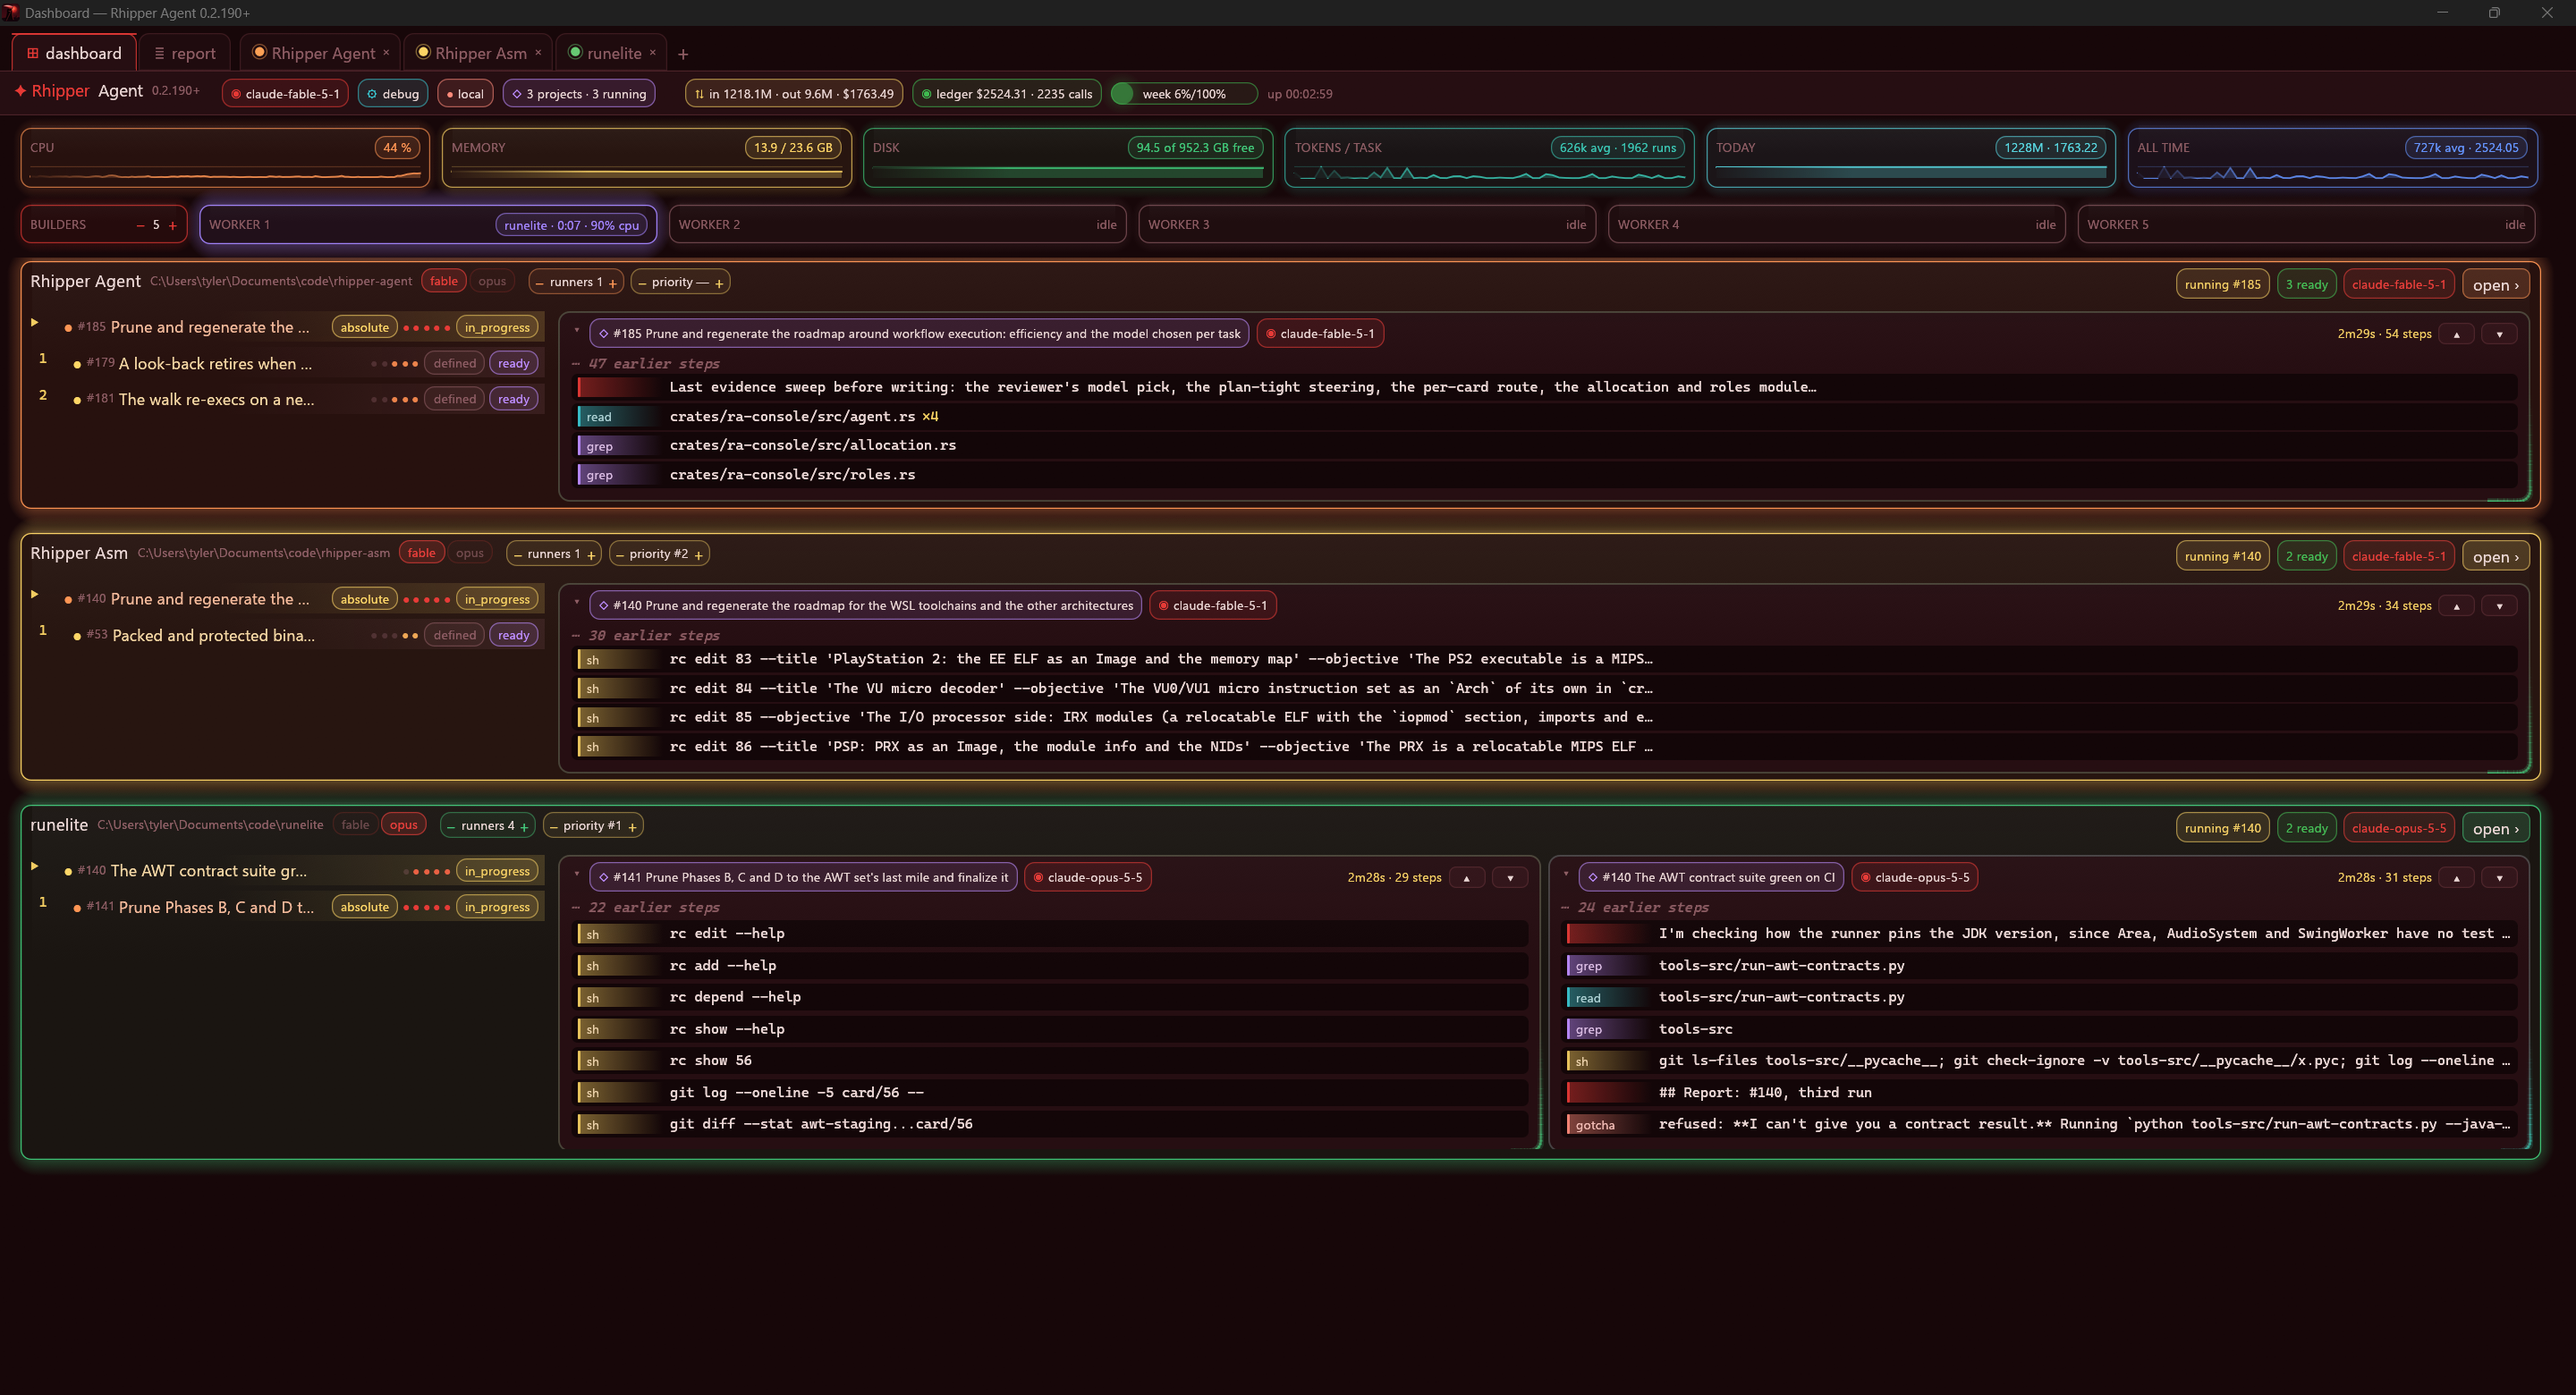
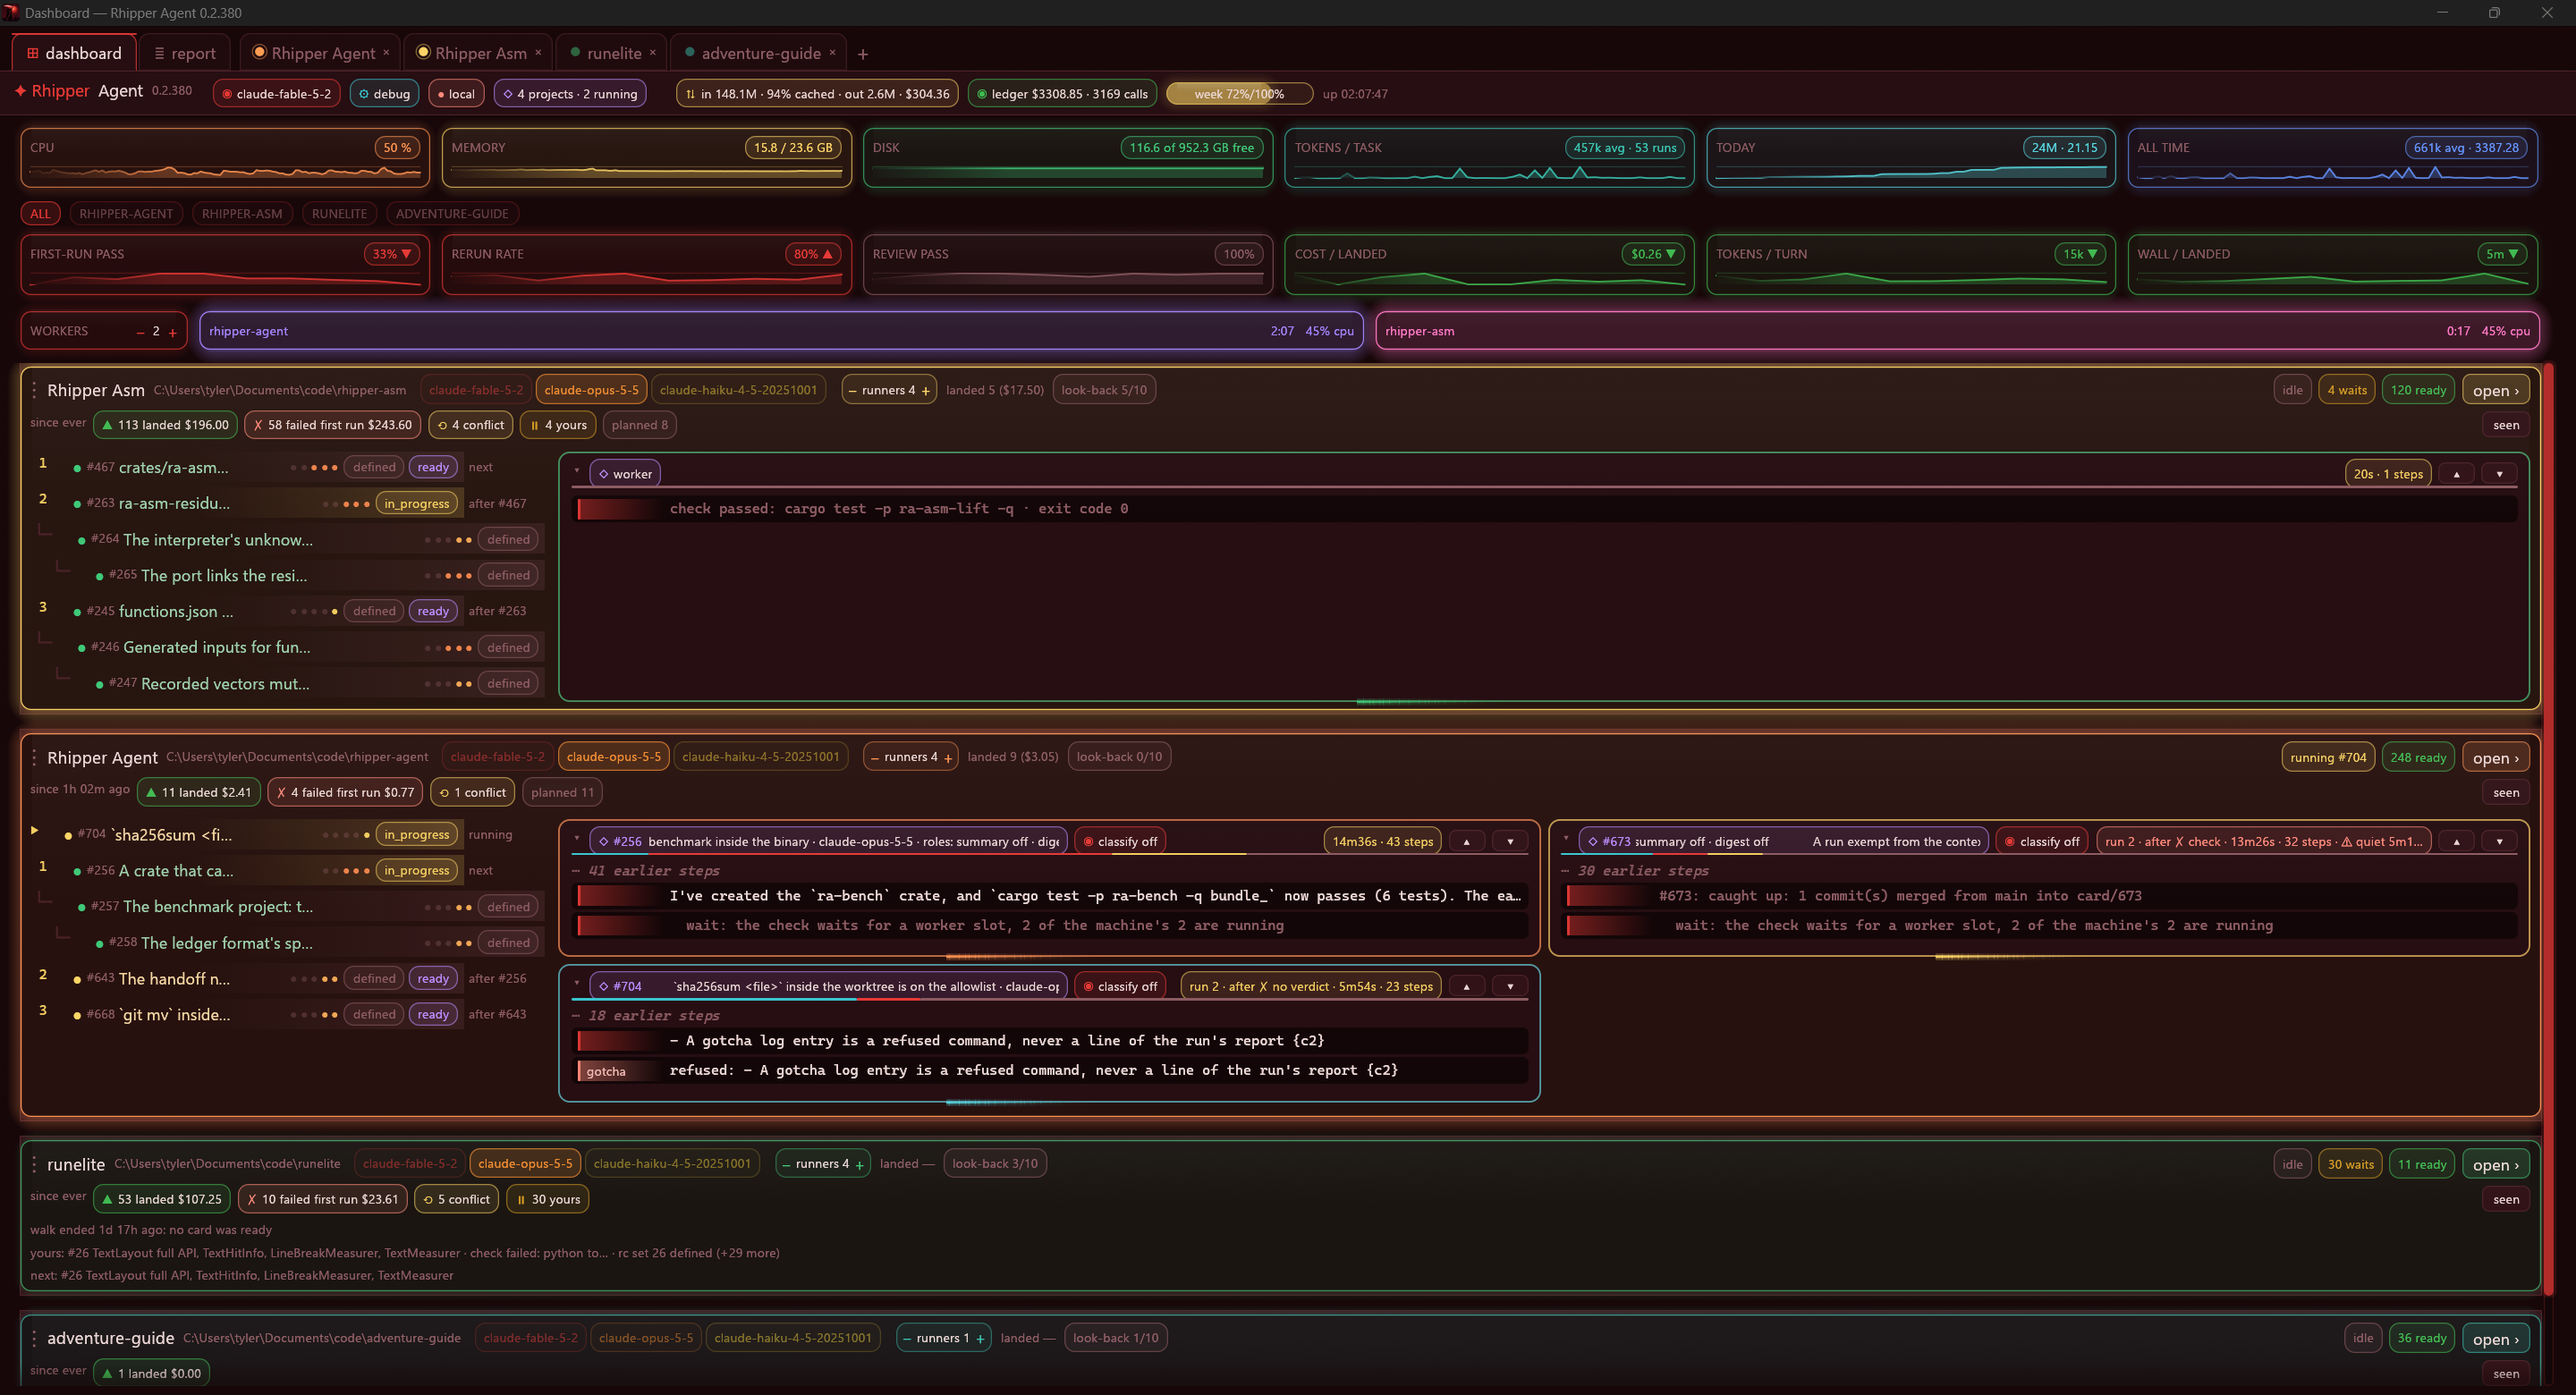
Refresh the README's dashboard screenshot
The window as it stands on 2026-11-14: rhipper-asm and rhipper-agent walking
four runners each, the worker slots, the trend tiles, the queues and live runs.

Changed region(s): [[0.0, 0.0923, 1.0, 1.0], [0.0938, 0.0308, 0.5312, 0.0923], [0.6875, 0.0923, 0.8125, 0.1538]]

diff --git a/README.md b/README.md
@@ -8,7 +8,7 @@ the lint, the review, the landing, the handoff, the ledger, the gotchas. One win
 project as a tab and a dashboard over all of them, and an external agent session pairs with
 the whole thing over a one-line-per-event feed.
 
-![The dashboard: three projects walking at once, the worker slots, each project's allocation and its live runs](docs/window.png)
+![The dashboard: two projects walking at once, the worker slots, each project's allocation and its live runs](docs/window.png)
 
 The roadmap owns the work. Models are replaceable workers. The orchestrator owns coordination,
 execution state, acceptance and the merge. The agent runs on its own roadmap too, and its
